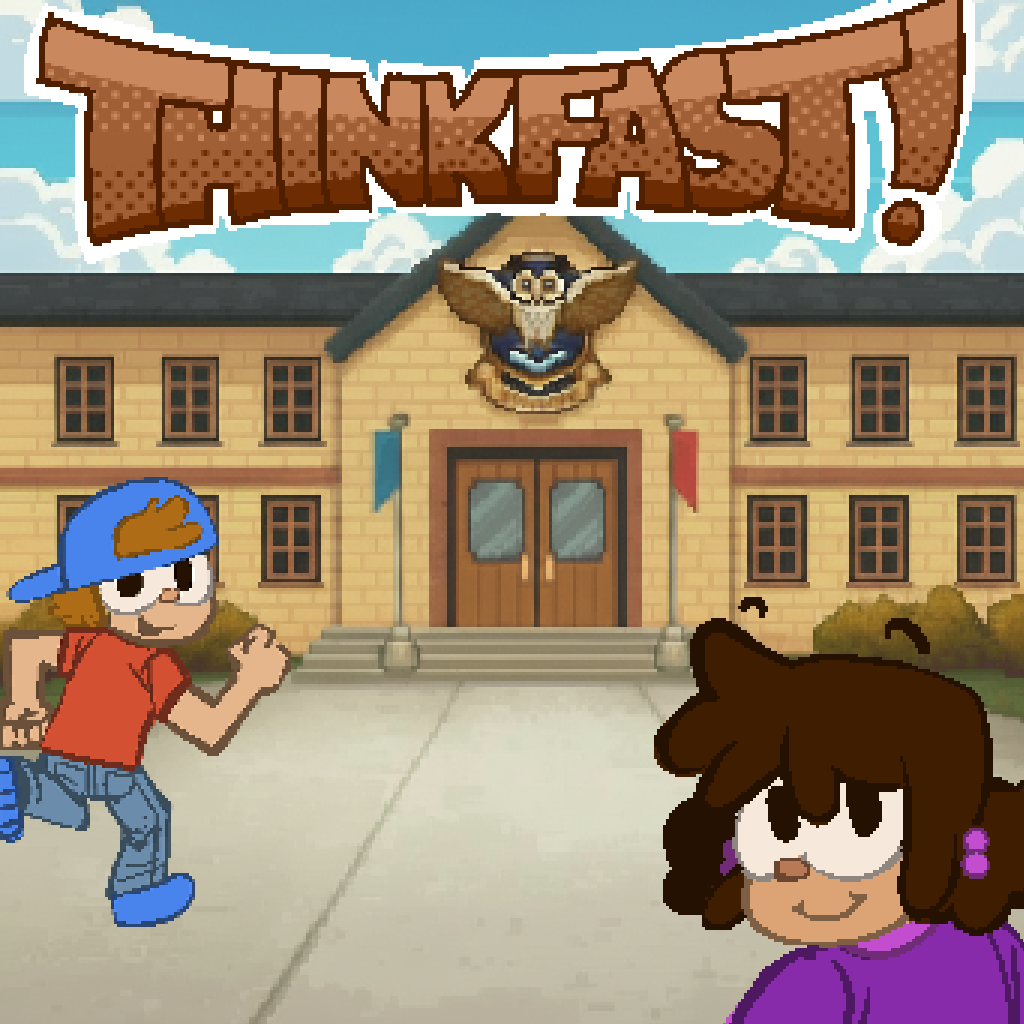
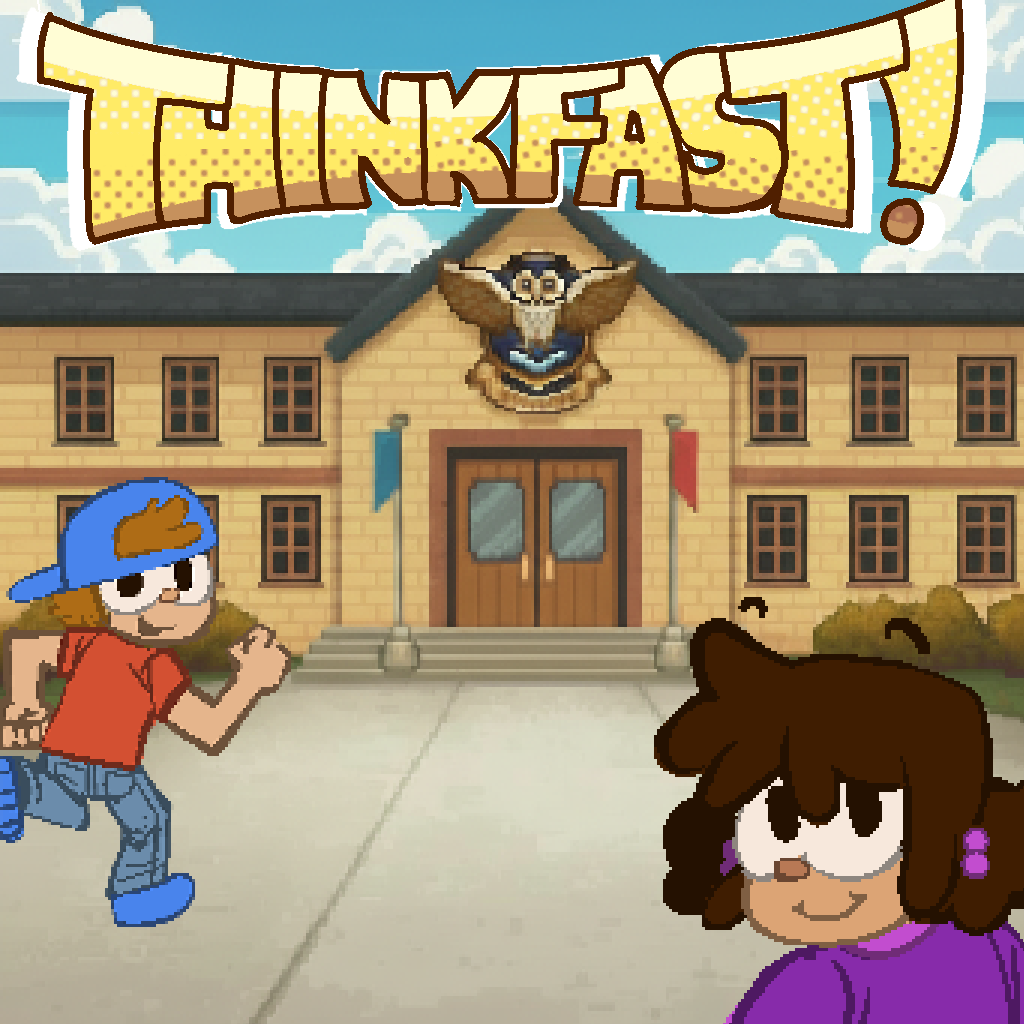
actualizacion de menu

Changed region(s): [[0.0, 0.0, 0.9688, 0.25]]

diff --git a/Menu.py b/Menu.py
@@ -13,7 +13,7 @@ light_blue = (173, 216, 230)
 pink = (255, 182, 193)
 green = (144, 238, 144)
 purple = (147, 112, 219)
-
+brown=(87, 27, 15)
 # Tamaños
 size = (900, 700)
 screen = pygame.display.set_mode(size)
@@ -37,11 +37,16 @@ imageb = pygame.transform.scale(imageb, size)
 config_background = pygame.image.load("Materials/Pictures/Assets/fondo_sin.png").convert()
 config_background = pygame.transform.scale(config_background, size)
 
+# AÑADIR: Imagen de fondo para textos
+text_background_img = pygame.image.load("Materials/Pictures/Assets/botontitusoli.png").convert_alpha()
+# Escalar a un tamaño apropiado para los textos
+text_background_img = pygame.transform.scale(text_background_img, (600, 80))
+
 # -------------------- BOTONES --------------------
 play_button_img = pygame.image.load("Materials/Pictures/Assets/btn_play.png").convert_alpha()
 quit_button_img = pygame.image.load("Materials/Pictures/Assets/btn_quit.png").convert_alpha()
-beginner_button_img = pygame.image.load("Materials/Pictures/Assets/btn_libro_solo.png").convert_alpha()
-advanced_button_img = pygame.image.load("Materials/Pictures/Assets/btn_montana_libros.png").convert_alpha()
+beginner_button_img = pygame.image.load("Materials/Pictures/Assets/buttonsoli.png").convert_alpha()
+advanced_button_img = pygame.image.load("Materials/Pictures/Assets/buttonsoli.png").convert_alpha()
 char1_button_img = pygame.image.load("Materials/Pictures/Assets/btn_boy.png").convert_alpha()
 char2_button_img = pygame.image.load("Materials/Pictures/Assets/btn_girl.png").convert_alpha()
 level1_button_img = pygame.image.load("Materials/Pictures/Assets/btn_principiante_1.png").convert_alpha()
@@ -49,6 +54,10 @@ level2_button_img = pygame.image.load("Materials/Pictures/Assets/btn_principiant
 level3_button_img = pygame.image.load("Materials/Pictures/Assets/btn_principiante_3.png").convert_alpha()
 back_button_img = pygame.image.load("Materials/Pictures/Assets/btn_regresar.png").convert_alpha()
 config_button_img = pygame.image.load("Materials/Pictures/Assets/btn_confi.png").convert_alpha()
+
+# AÑADIR: Botones de volumen sin texto
+volume_up_img = pygame.image.load("Materials/Pictures/Assets/btn_volum_mas.png").convert_alpha()
+volume_down_img = pygame.image.load("Materials/Pictures/Assets/btn_volum_menos.png").convert_alpha()
 
 clock = pygame.time.Clock()
 
@@ -183,7 +192,7 @@ def draw_button(image, rect):
     screen.blit(scaled_img, rect)
     return rect
 
-def draw_button_with_text(image, rect, text, font, text_color=yellow, outline_color=black):
+def draw_button_with_text(image, rect, text, font, text_color=brown, outline_color=white):
     """Dibuja un botón con imagen y texto con borde - SOLO para configuración"""
     # Escalar y dibujar la imagen del botón
     scaled_img = pygame.transform.scale(image, (rect.width, rect.height))
@@ -230,7 +239,7 @@ def create_menu_buttons():
     return play_button_rect, quit_button_rect, config_button_rect
 
 def create_difficulty_buttons():
-    beginner_button_rect = pygame.Rect(0, 0, 250, 80)
+    beginner_button_rect = pygame.Rect(0, 0, 285, 80)
     beginner_button_rect.center = (screen.get_width() // 2, screen.get_height() // 2 - 20)
 
     advanced_button_rect = pygame.Rect(0, 0, 250, 80)
@@ -282,7 +291,7 @@ def draw_menu(play_button_rect, quit_button_rect, config_button_rect):
     
     # SOLO DIBUJAR BOTONES SIN TEXTO SOBREESCRITO
     draw_button(play_button_img, play_button_rect)
-    draw_button(quit_button_img, quit_button_rect)
+    draw_button(quit_button_img, quit_button_rect)  
     draw_button(config_button_img, config_button_rect)
 
 def draw_difficulty_selection(beginner_button_rect, advanced_button_rect, back_button_rect):
@@ -290,15 +299,19 @@ def draw_difficulty_selection(beginner_button_rect, advanced_button_rect, back_b
     
     screen.blit(imageb, [0, 0])
     
-    # Texto traducido con fuente mejorada
-    difficulty_surface = render_text_with_outline(texts[language]["select_difficulty"], font_large, yellow, black)
+    # FONDO PARA EL TEXTO "Selecciona la dificultad"
+    bg_rect = text_background_img.get_rect(center=(size[0] // 2, size[1] // 2 - 180))
+    screen.blit(text_background_img, bg_rect)
+    
+    # Texto traducido 
+    difficulty_surface = render_text_with_outline(texts[language]["select_difficulty"], font_medium, brown, white)
     difficulty_text_rect = difficulty_surface.get_rect(center=(size[0] // 2, size[1] // 2 - 180))
     screen.blit(difficulty_surface, difficulty_text_rect)
     
-    # SOLO DIBUJAR BOTONES SIN TEXTO SOBREESCRITO
-    draw_button(beginner_button_img, beginner_button_rect)
-    draw_button(advanced_button_img, advanced_button_rect)
-    draw_button(back_button_img, back_button_rect)
+    # BOTONES CON TEXTO
+    draw_button_with_text(beginner_button_img, beginner_button_rect, texts[language]["beginner"], font_small, brown, white)
+    draw_button_with_text(advanced_button_img, advanced_button_rect, texts[language]["advanced"], font_small, brown, white)
+    draw_button(back_button_img, back_button_rect)  # Botón regresar
     
     if show_coming_soon:
         coming_soon_text = render_text_with_outline(texts[language]["coming_soon"], font_medium, red, white)
@@ -308,31 +321,39 @@ def draw_difficulty_selection(beginner_button_rect, advanced_button_rect, back_b
 def draw_character_selection(char1_button_rect, char2_button_rect, back_button_rect):
     screen.blit(imageb, [0, 0])
     
-    # Texto traducido con fuente mejorada
-    select_surface = render_text_with_outline(texts[language]["select_character"], font_large, yellow, black)
+    # FONDO PARA EL TEXTO "Selecciona el personaje"
+    bg_rect = text_background_img.get_rect(center=(size[0] // 2, size[1] // 2 - 180))
+    screen.blit(text_background_img, bg_rect)
+    
+    # Texto traducido con fuente MÁS PEQUEÑA para que quepa en el botón
+    select_surface = render_text_with_outline(texts[language]["select_character"], font_medium, brown, white)
     select_text_rect = select_surface.get_rect(center=(size[0] // 2, size[1] // 2 - 180))
     screen.blit(select_surface, select_text_rect)
     
-    # SOLO DIBUJAR BOTONES SIN TEXTO SOBREESCRITO
-    draw_button(char1_button_img, char1_button_rect)
-    draw_button(char2_button_img, char2_button_rect)
-    draw_button(back_button_img, back_button_rect)
+    # BOTONES CON TEXTO CENTRADO (amarillo con borde blanco)
+    draw_button_with_text(char1_button_img, char1_button_rect, texts[language]["boy"], font_small, brown, white)
+    draw_button_with_text(char2_button_img, char2_button_rect, texts[language]["girl"], font_small, brown, white)
+    draw_button(back_button_img, back_button_rect)  # Botón regresar SIN texto
 
 def draw_level_selection(level1_button_rect, level2_button_rect, level3_button_rect, back_button_rect):
     global show_coming_soon
     
     screen.blit(imageb, [0, 0])
     
-    # Texto traducido con fuente mejorada
-    level_surface = render_text_with_outline(texts[language]["select_level"], font_large, yellow, black)
+    # FONDO PARA EL TEXTO "Selecciona el nivel"
+    bg_rect = text_background_img.get_rect(center=(size[0] // 2, size[1] // 2 - 180))
+    screen.blit(text_background_img, bg_rect)
+    
+    # Texto traducido con fuente MÁS PEQUEÑA para que quepa en el botón
+    level_surface = render_text_with_outline(texts[language]["select_level"], font_medium, brown, white)
     level_text_rect = level_surface.get_rect(center=(size[0] // 2, size[1] // 2 - 180))
     screen.blit(level_surface, level_text_rect)
     
-    # SOLO DIBUJAR BOTONES SIN TEXTO SOBREESCRITO
-    draw_button(level1_button_img, level1_button_rect)
-    draw_button(level2_button_img, level2_button_rect)
-    draw_button(level3_button_img, level3_button_rect)
-    draw_button(back_button_img, back_button_rect)
+    # BOTONES CON TEXTO CENTRADO (amarillo con borde blanco)
+    draw_button_with_text(level1_button_img, level1_button_rect, f"{texts[language]['level']} 1", font_small, brown, white)
+    draw_button_with_text(level2_button_img, level2_button_rect, f"{texts[language]['level']} 2", font_small, brown, white)
+    draw_button_with_text(level3_button_img, level3_button_rect, f"{texts[language]['level']} 3", font_small, brown, white)
+    draw_button(back_button_img, back_button_rect)  # Botón regresar SIN texto
     
     if show_coming_soon:
         coming_soon_text = render_text_with_outline(texts[language]["coming_soon"], font_medium, red, white)
@@ -342,51 +363,46 @@ def draw_level_selection(level1_button_rect, level2_button_rect, level3_button_r
 def draw_config_menu(back_button_rect):
     screen.blit(config_background, [0, 0])
     
-    # Título traducido con fuente mejorada
-    title_surface = render_text_with_outline(texts[language]["title_config"], font_large, yellow, black)
+    # FONDO PARA EL TEXTO "Menú de Configuración"
+    bg_rect = text_background_img.get_rect(center=(size[0] // 2, 100))
+    screen.blit(text_background_img, bg_rect)
+    
+    # Título traducido con fuente MÁS PEQUEÑA para que quepa en el botón
+    title_surface = render_text_with_outline(texts[language]["title_config"], font_medium, brown, white)
     screen.blit(title_surface, title_surface.get_rect(center=(size[0] // 2, 100)))
     
     # Sección idioma
-    lang_label = render_text_with_outline(f"{texts[language]['language']}:", font_medium, yellow, black)
+    lang_label = render_text_with_outline(f"{texts[language]['language']}:", font_medium, brown, white)
     screen.blit(lang_label, (150, 200))
     
     # Botones de idioma (aquí SÍ usamos texto porque son botones genéricos)
     global language_es_rect, language_en_rect
     language_es_rect = draw_button_with_text(
         play_button_img,
-        pygame.Rect(150, 250, 200, 60),
-        texts["es"]["spanish"], font_small
+        pygame.Rect(130, 180, 160, 60),
+        texts["es"]["spanish"], font_small, brown, white
     )
     
     language_en_rect = draw_button_with_text(
         play_button_img,  
         pygame.Rect(400, 250, 200, 60),
-        texts["en"]["english"], font_small
+        texts["en"]["english"], font_small, yellow, white
     )
     
     # Sección volumen
-    vol_label = render_text_with_outline(f"🔊 {texts[language]['volume']}: {int(volume_level * 100)}%", font_medium, yellow, black)
+    vol_label = render_text_with_outline(f"🔊 {texts[language]['volume']}: {int(volume_level * 100)}%", font_medium, brown, white)
     screen.blit(vol_label, (150, 350))
     
     # Slider de volumen
     global volume_slider_rect
     volume_slider_rect = draw_volume_slider(150, 400, 400, 20, volume_level, pink)
     
-    # Botones de volumen (aquí SÍ usamos texto porque son botones genéricos)
+    # Botones de volumen SIN TEXTO - solo imágenes
     global volume_down_rect, volume_up_rect
-    volume_down_rect = draw_button_with_text(
-        play_button_img,
-        pygame.Rect(150, 450, 80, 60),
-        "-", font_medium
-    )
+    volume_down_rect = draw_button(volume_down_img, pygame.Rect(150, 450, 80, 60))
+    volume_up_rect = draw_button(volume_up_img, pygame.Rect(470, 450, 80, 60))
     
-    volume_up_rect = draw_button_with_text(
-        play_button_img,
-        pygame.Rect(470, 450, 80, 60),
-        "+", font_medium
-    )
-    
-    # Botón regresar (SOLO imagen, sin texto sobreescrito)
+    # Botón regresar SIN TEXTO
     draw_button(back_button_img, back_button_rect)
 
 # -------------------- CREACIÓN DE ELEMENTOS --------------------
